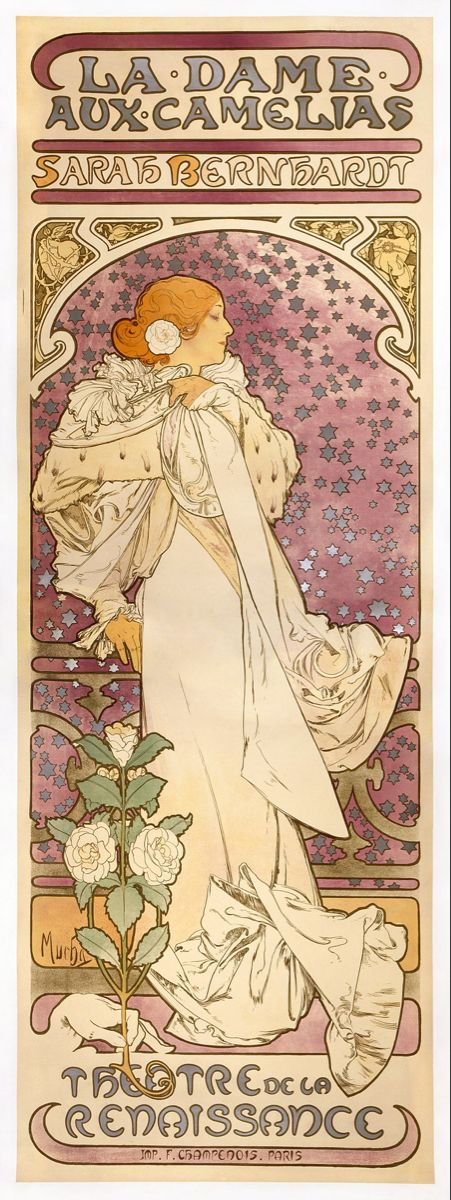
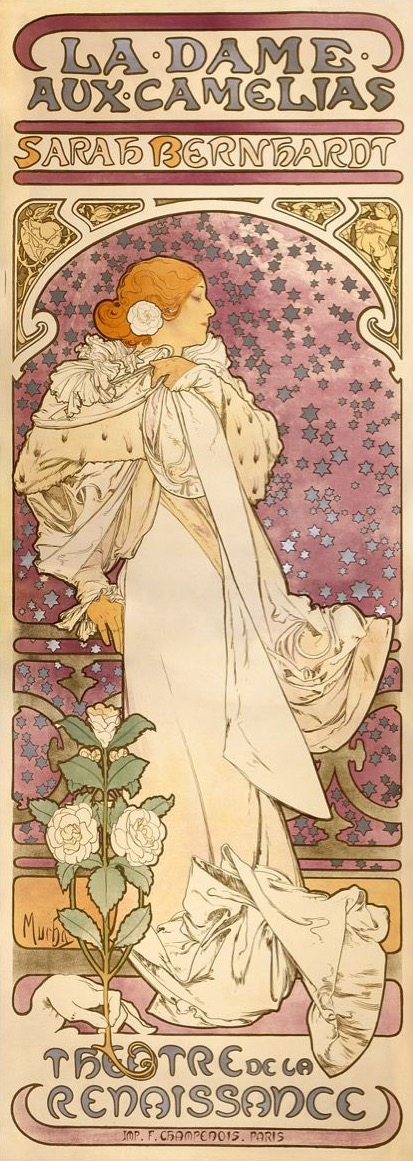
modified adv img

diff --git a/assets/css/ArtNouveau/artnouveau.css b/assets/css/ArtNouveau/artnouveau.css
@@ -70,7 +70,7 @@ p {
   font-size: 20px;
   background-image: url('MuchaAdv.jpg');
   background-repeat: no-repeat;
-  background-size: auto;
+  background-position: right bottom;
 }
 
 /*--------------------------------------------------------------
